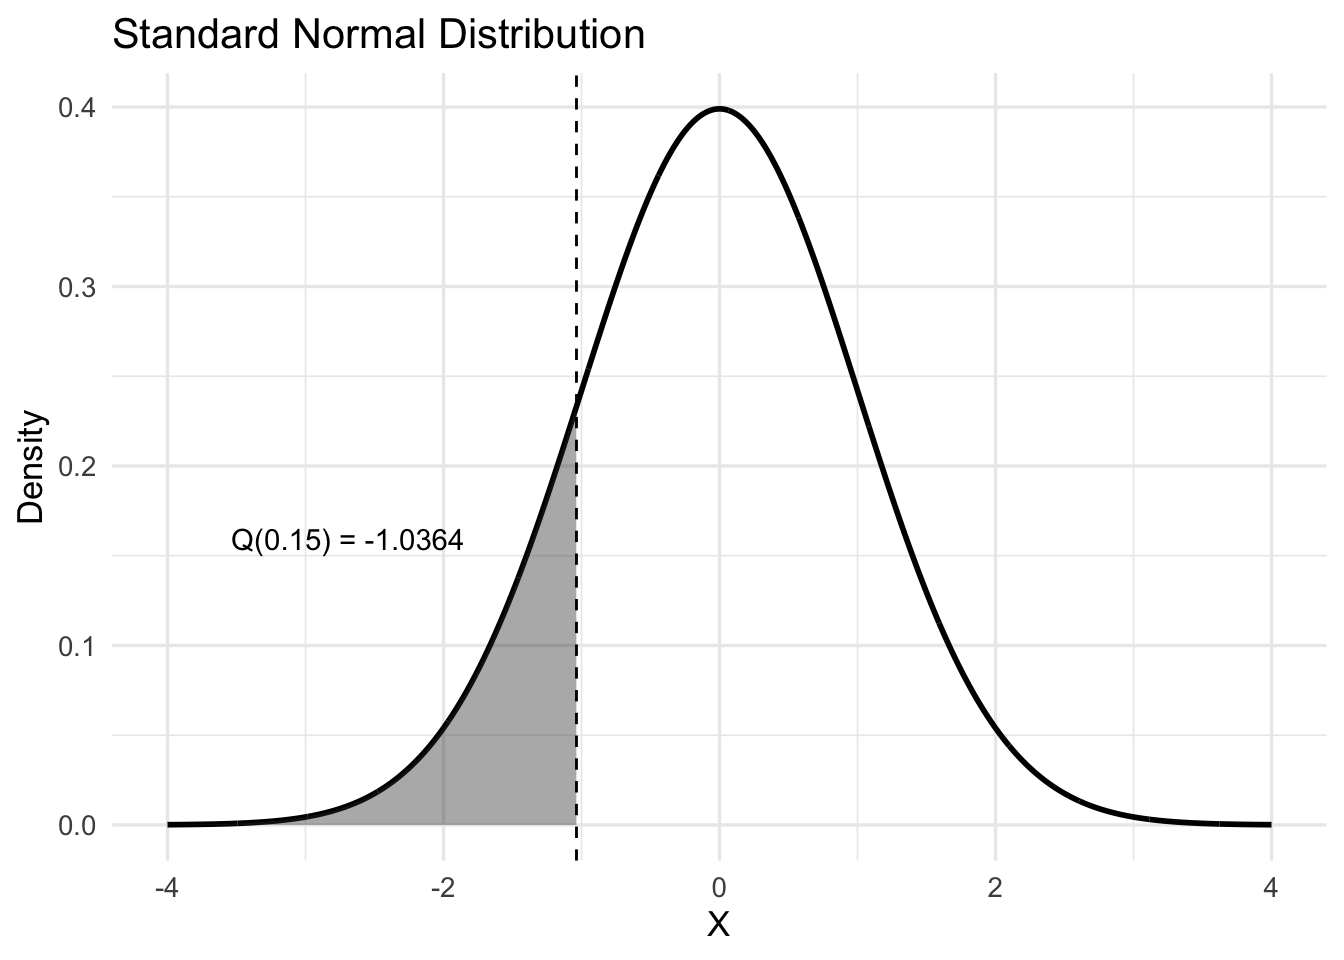
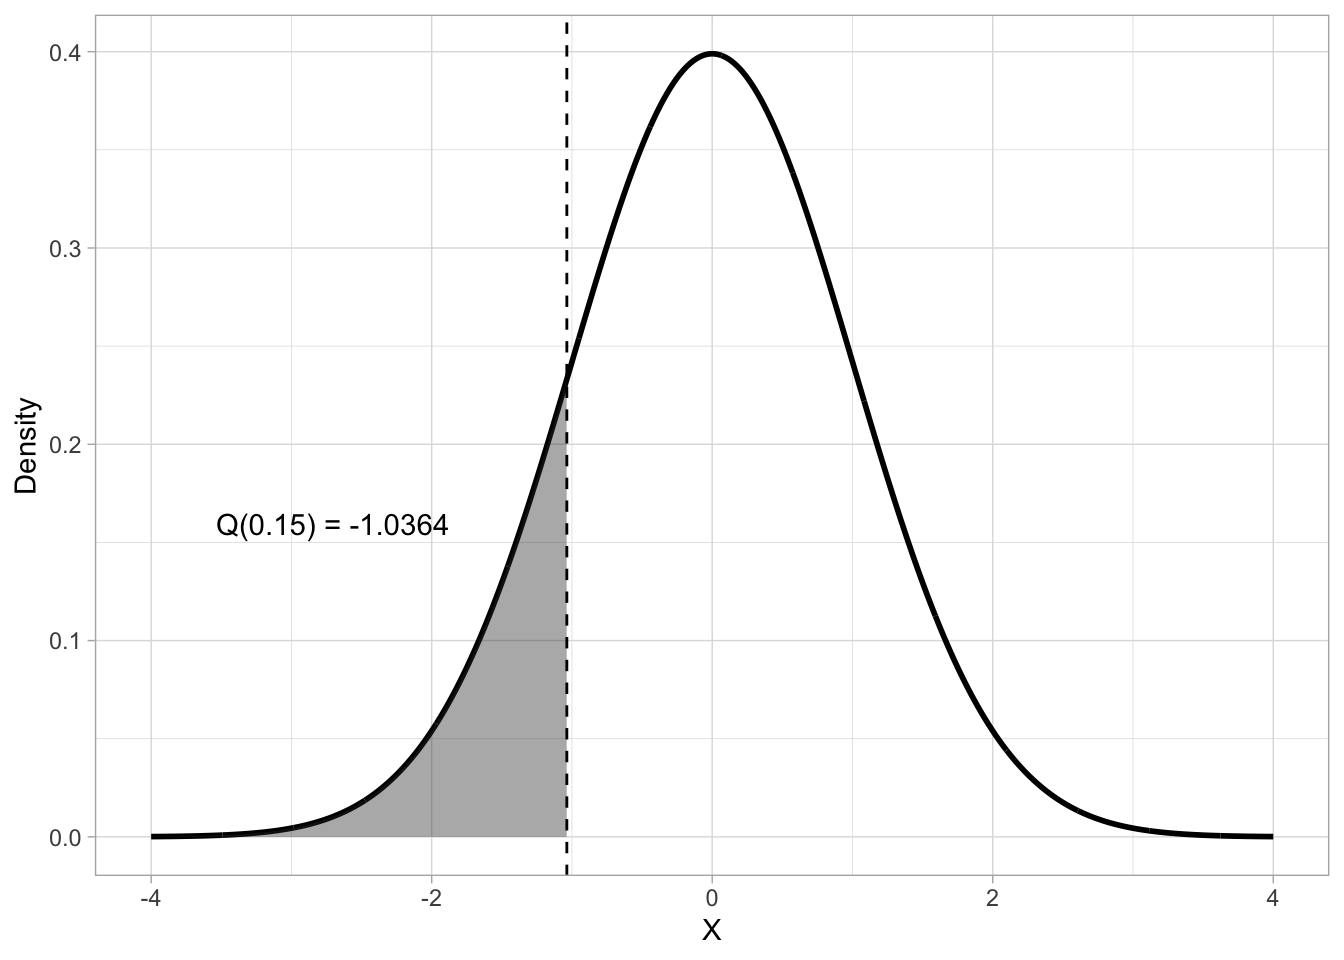
edit chapters

diff --git a/docs/ch-gaussian.html b/docs/ch-gaussian.html
@@ -815,10 +815,8 @@ P(X \leq x) = q, 0 \leq q \leq 1
 <span id="cb13-13"><a href="#cb13-13" aria-hidden="true" tabindex="-1"></a>  <span class="fu">geom_vline</span>(<span class="at">xintercept =</span> q, <span class="at">linetype =</span> <span class="st">"dashed"</span>) <span class="sc">+</span></span>
 <span id="cb13-14"><a href="#cb13-14" aria-hidden="true" tabindex="-1"></a>  <span class="fu">annotate</span>(<span class="st">"text"</span>, <span class="at">x =</span> q <span class="sc">-</span> <span class="fl">2.5</span>, <span class="at">y =</span> <span class="fu">dnorm</span>(<span class="dv">0</span>) <span class="sc">*</span> <span class="fl">0.4</span>, <span class="at">label =</span> lbl, <span class="at">hjust =</span> <span class="dv">0</span>) <span class="sc">+</span></span>
 <span id="cb13-15"><a href="#cb13-15" aria-hidden="true" tabindex="-1"></a>  <span class="fu">labs</span>(</span>
-<span id="cb13-16"><a href="#cb13-16" aria-hidden="true" tabindex="-1"></a>    <span class="at">title =</span> <span class="st">"Standard Normal Distribution"</span>,</span>
-<span id="cb13-17"><a href="#cb13-17" aria-hidden="true" tabindex="-1"></a>    <span class="at">y =</span> <span class="st">"Density"</span>, <span class="at">x =</span> <span class="st">"X"</span></span>
-<span id="cb13-18"><a href="#cb13-18" aria-hidden="true" tabindex="-1"></a>  ) <span class="sc">+</span></span>
-<span id="cb13-19"><a href="#cb13-19" aria-hidden="true" tabindex="-1"></a>  <span class="fu">theme_minimal</span>(<span class="at">base_size =</span> <span class="dv">13</span>)</span></code><button title="Copy to Clipboard" class="code-copy-button"><i class="bi"></i></button></pre></div>
+<span id="cb13-16"><a href="#cb13-16" aria-hidden="true" tabindex="-1"></a>    <span class="at">y =</span> <span class="st">"Density"</span>, <span class="at">x =</span> <span class="st">"X"</span></span>
+<span id="cb13-17"><a href="#cb13-17" aria-hidden="true" tabindex="-1"></a>  )</span></code><button title="Copy to Clipboard" class="code-copy-button"><i class="bi"></i></button></pre></div>
 </details>
 <div class="cell-output-display">
 <div id="fig-quant" class="quarto-float quarto-figure quarto-figure-center anchored">
@@ -943,6 +941,19 @@ Figure&nbsp;19.6: Quartiles of a Gaussian distribution.
 <pre><code>[1] -0.67  0.00  0.67</code></pre>
 </div>
 </div>
+<div class="callout callout-style-default callout-tip no-icon callout-titled">
+<div class="callout-header d-flex align-content-center">
+<div class="callout-icon-container">
+<i class="callout-icon no-icon"></i>
+</div>
+<div class="callout-title-container flex-fill">
+Quartiles
+</div>
+</div>
+<div class="callout-body-container callout-body">
+<p><strong>Quartiles</strong> are quantiles that split the distribution into four quarters, each holding 25% of the probability mass</p>
+</div>
+</div>
 <div class="callout callout-style-default callout-warning no-icon callout-titled">
 <div class="callout-header d-flex align-content-center">
 <div class="callout-icon-container">
@@ -964,6 +975,85 @@ Exercise 2
 </section>
 <section id="percentiles" class="level3" data-number="19.3.2">
 <h3 data-number="19.3.2" class="anchored" data-anchor-id="percentiles"><span class="header-section-number">19.3.2</span> Percentiles</h3>
+<p>Another type of quantile are <strong>percentiles</strong>. These split the probability in 100 percentiles, each holding 1% of the probability mass. Percentiles are used to define central probability intervals, i.e.&nbsp;probability intervals that leave equal probability in both tails of the distribution. It is usually implied that you mean a central interval, so you don’t really have to say “central” every time. A (central) 95% interval is defined as the interval between 2.5th and the 97.5th percentile of the distribution. <a href="#fig-ninetyfive" class="quarto-xref">Figure&nbsp;<span>19.7</span></a> illustrates the 95% interval of <span class="math inline">\(Gaussian(0, 1)\)</span>. The shaded are is the 95% interval, while the two white areas at the tails hold each 2.5% of the distribution, thus making the rest 5% of the distribution not included in the 95% interval. Remember, probability intervals leave equal probability on both tails.</p>
+<div class="cell">
+<details class="code-fold">
+<summary>Code</summary>
+<div class="sourceCode cell-code" id="cb25"><pre class="sourceCode r code-with-copy"><code class="sourceCode r"><span id="cb25-1"><a href="#cb25-1" aria-hidden="true" tabindex="-1"></a>p <span class="ot">&lt;-</span> <span class="fl">0.15</span></span>
+<span id="cb25-2"><a href="#cb25-2" aria-hidden="true" tabindex="-1"></a></span>
+<span id="cb25-3"><a href="#cb25-3" aria-hidden="true" tabindex="-1"></a>df <span class="ot">&lt;-</span> <span class="fu">tibble</span>(<span class="at">x =</span> <span class="fu">seq</span>(<span class="sc">-</span><span class="dv">4</span>, <span class="dv">4</span>, <span class="at">length.out =</span> <span class="dv">2000</span>)) <span class="sc">|&gt;</span></span>
+<span id="cb25-4"><a href="#cb25-4" aria-hidden="true" tabindex="-1"></a>  <span class="fu">mutate</span>(<span class="at">dens =</span> <span class="fu">dnorm</span>(x))</span>
+<span id="cb25-5"><a href="#cb25-5" aria-hidden="true" tabindex="-1"></a></span>
+<span id="cb25-6"><a href="#cb25-6" aria-hidden="true" tabindex="-1"></a>df_shade <span class="ot">&lt;-</span> df <span class="sc">|&gt;</span> <span class="fu">filter</span>(x <span class="sc">&gt;=</span> <span class="fu">qnorm</span>(<span class="fl">0.025</span>) <span class="sc">&amp;</span> x <span class="sc">&lt;=</span> <span class="fu">qnorm</span>(<span class="fl">0.975</span>))</span>
+<span id="cb25-7"><a href="#cb25-7" aria-hidden="true" tabindex="-1"></a></span>
+<span id="cb25-8"><a href="#cb25-8" aria-hidden="true" tabindex="-1"></a><span class="fu">ggplot</span>(df, <span class="fu">aes</span>(x, dens)) <span class="sc">+</span></span>
+<span id="cb25-9"><a href="#cb25-9" aria-hidden="true" tabindex="-1"></a>  <span class="fu">geom_area</span>(<span class="at">data =</span> df_shade, <span class="fu">aes</span>(<span class="at">y =</span> dens), <span class="at">alpha =</span> <span class="fl">0.4</span>) <span class="sc">+</span></span>
+<span id="cb25-10"><a href="#cb25-10" aria-hidden="true" tabindex="-1"></a>  <span class="fu">geom_line</span>(<span class="at">linewidth =</span> <span class="dv">1</span>) <span class="sc">+</span></span>
+<span id="cb25-11"><a href="#cb25-11" aria-hidden="true" tabindex="-1"></a>  <span class="fu">annotate</span>(</span>
+<span id="cb25-12"><a href="#cb25-12" aria-hidden="true" tabindex="-1"></a>    <span class="st">"label"</span>, <span class="at">x =</span> <span class="dv">0</span>, <span class="at">y =</span> <span class="fl">0.15</span>, <span class="at">label =</span> <span class="st">"95% interval"</span></span>
+<span id="cb25-13"><a href="#cb25-13" aria-hidden="true" tabindex="-1"></a>  ) <span class="sc">+</span></span>
+<span id="cb25-14"><a href="#cb25-14" aria-hidden="true" tabindex="-1"></a>  <span class="fu">annotate</span>(</span>
+<span id="cb25-15"><a href="#cb25-15" aria-hidden="true" tabindex="-1"></a>    <span class="st">"text"</span>,</span>
+<span id="cb25-16"><a href="#cb25-16" aria-hidden="true" tabindex="-1"></a>    <span class="at">x =</span> <span class="fu">c</span>(<span class="fu">qnorm</span>(<span class="fl">0.025</span>) <span class="sc">-</span> <span class="fl">0.1</span>, <span class="fu">qnorm</span>(<span class="fl">0.975</span>) <span class="sc">+</span> <span class="fl">0.15</span>), <span class="at">y =</span> <span class="fl">0.1</span>,</span>
+<span id="cb25-17"><a href="#cb25-17" aria-hidden="true" tabindex="-1"></a>    <span class="at">label =</span> <span class="fu">c</span>(<span class="st">"2.5th"</span>, <span class="st">"97.5th"</span>)</span>
+<span id="cb25-18"><a href="#cb25-18" aria-hidden="true" tabindex="-1"></a>  ) <span class="sc">+</span></span>
+<span id="cb25-19"><a href="#cb25-19" aria-hidden="true" tabindex="-1"></a>  <span class="fu">labs</span>(</span>
+<span id="cb25-20"><a href="#cb25-20" aria-hidden="true" tabindex="-1"></a>    <span class="at">y =</span> <span class="st">"Density"</span>, <span class="at">x =</span> <span class="st">"X"</span></span>
+<span id="cb25-21"><a href="#cb25-21" aria-hidden="true" tabindex="-1"></a>  )</span></code><button title="Copy to Clipboard" class="code-copy-button"><i class="bi"></i></button></pre></div>
+</details>
+<div class="cell-output-display">
+<div id="fig-ninetyfive" class="quarto-float quarto-figure quarto-figure-center anchored">
+<figure class="quarto-float quarto-float-fig figure">
+<div aria-describedby="fig-ninetyfive-caption-0ceaefa1-69ba-4598-a22c-09a6ac19f8ca">
+<img src="ch-gaussian_files/figure-html/fig-ninetyfive-1.png" class="img-fluid figure-img" width="672">
+</div>
+<figcaption class="quarto-float-caption-bottom quarto-float-caption quarto-float-fig" id="fig-ninetyfive-caption-0ceaefa1-69ba-4598-a22c-09a6ac19f8ca">
+Figure&nbsp;19.7: The 95% interval of Gaussian(0, 1).
+</figcaption>
+</figure>
+</div>
+</div>
+</div>
+<div class="callout callout-style-default callout-tip no-icon callout-titled">
+<div class="callout-header d-flex align-content-center">
+<div class="callout-icon-container">
+<i class="callout-icon no-icon"></i>
+</div>
+<div class="callout-title-container flex-fill">
+Central probability intervals
+</div>
+</div>
+<div class="callout-body-container callout-body">
+<p>Central <strong>probability intervals</strong> are intervals that leave equal probability in both tails of the distribution.</p>
+<p>A 95% interval is defined as the interval between the 2.5th and the 97.5th percentile.</p>
+</div>
+</div>
+<div class="callout callout-style-default callout-note no-icon callout-titled">
+<div class="callout-header d-flex align-content-center">
+<div class="callout-icon-container">
+<i class="callout-icon no-icon"></i>
+</div>
+<div class="callout-title-container flex-fill">
+Quiz 1
+</div>
+</div>
+<div class="callout-body-container callout-body">
+<ol type="a">
+<li>Which of the following percentiles define an 80% interval?
+<div id="radio_KEDBPJHRYP" class="webex-radiogroup">
+<label><input type="radio" autocomplete="off" name="radio_KEDBPJHRYP" value="answer"> <span>(0.1, 0.9)</span></label><label><input type="radio" autocomplete="off" name="radio_KEDBPJHRYP" value=""> <span>(0.2, 0.8)</span></label><label><input type="radio" autocomplete="off" name="radio_KEDBPJHRYP" value=""> <span>(0.05, 0.95)</span></label>
+</div></li>
+<li>Which of the following percentiles define a <em>non</em>-central 85% interval?
+<div id="radio_TWSZGNSEHI" class="webex-radiogroup">
+<label><input type="radio" autocomplete="off" name="radio_TWSZGNSEHI" value=""> <span>(0.075, 0.925)</span></label><label><input type="radio" autocomplete="off" name="radio_TWSZGNSEHI" value="answer"> <span>(0.1, 0.95)</span></label><label><input type="radio" autocomplete="off" name="radio_TWSZGNSEHI" value=""> <span>(0.05, 0.95)</span></label><label><input type="radio" autocomplete="off" name="radio_TWSZGNSEHI" value=""> <span>(0.15, 0.85)</span></label>
+</div></li>
+<li>Which interval do the 40th and 60th percentile define?
+<div id="radio_FTZBUZXUBW" class="webex-radiogroup">
+<label><input type="radio" autocomplete="off" name="radio_FTZBUZXUBW" value=""> <span>A 60% central interval.</span></label><label><input type="radio" autocomplete="off" name="radio_FTZBUZXUBW" value=""> <span>A 20% non-central interval.</span></label><label><input type="radio" autocomplete="off" name="radio_FTZBUZXUBW" value=""> <span>A 40% non-central interval.</span></label><label><input type="radio" autocomplete="off" name="radio_FTZBUZXUBW" value="answer"> <span>A 20% central interval.</span></label>
+</div></li>
+</ol>
+</div>
+</div>
 
 
 </section>
